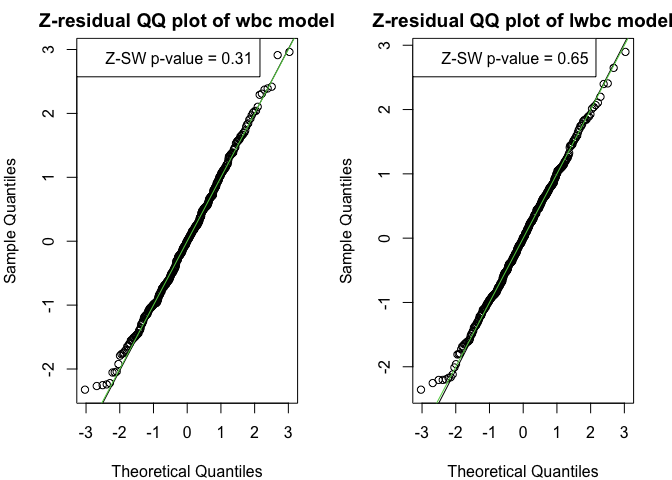
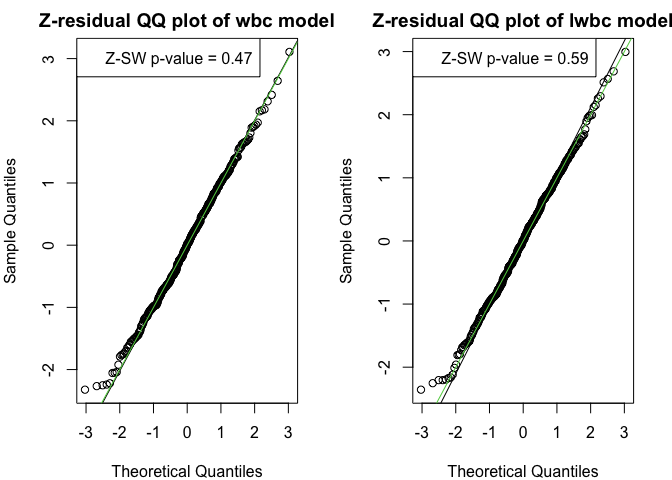
update

diff --git a/README.md b/README.md
@@ -161,6 +161,7 @@ plot.zresid(Zresid.LeukSurv.wbc,
             fitted.values=fit_LeukSurv_wbc$linear.predictors,
             xlab="Linear Predictor",
             main.title = "Z-residual Scatterplot of wbc model")
+#> Outlier Indices: 375
 plot.zresid(Zresid.LeukSurv.logwbc,
             fitted.values=fit_LeukSurv_logwbc$linear.predictors,
             xlab="Linear Predictor",
@@ -196,6 +197,7 @@ par(mfrow = c(2,2),mar=c(4,4,1.5,2))
 plot.zresid(Zresid.LeukSurv.wbc,
             fitted.values=LeukSurv$wbc,
             xlab="wbc",main.title = "Z-residual Scatterplot of wbc model")
+#> Outlier Indices: 375
 plot.zresid(Zresid.LeukSurv.logwbc,
             fitted.values=LeukSurv$logwbc,
             xlab="log(wbc)",main.title = "Z-residual Scatterplot of lwbc model")
@@ -229,13 +231,13 @@ the normality of censored Z-residuals.
 
 ``` r
 sw.test.zresid(Zresid.LeukSurv.wbc)
-#> [1] 0.3137372
+#> [1] 0.4695733
 sw.test.zresid(Zresid.LeukSurv.logwbc)
-#> [1] 0.6498562
+#> [1] 0.5895072
 sf.test.zresid(Zresid.LeukSurv.wbc)
-#> [1] 0.4569965
+#> [1] 0.5796773
 sf.test.zresid(Zresid.LeukSurv.logwbc)
-#> [1] 0.8233833
+#> [1] 0.7405083
 ```
 
 The Z-residuals can be divided into $k$ groups by cutting the covariates
@@ -247,24 +249,24 @@ to examine the equality of variances.
 
 ``` r
 anov.test.zresid(Zresid.LeukSurv.wbc,fitted.values=fit_LeukSurv_wbc$linear.predictors, k.anova=10)
-#> [1] 0.7404806
+#> [1] 0.8839658
 anov.test.zresid(Zresid.LeukSurv.logwbc,fitted.values=fit_LeukSurv_logwbc$linear.predictors, k.anova=10)
-#> [1] 0.8532235
+#> [1] 0.4987955
 
 bartlett.test.zresid(Zresid.LeukSurv.wbc,fitted.values=fit_LeukSurv_wbc$linear.predictors, k.bl=10)
-#> [1] 0.3240303
+#> [1] 0.411713
 bartlett.test.zresid(Zresid.LeukSurv.logwbc,fitted.values=fit_LeukSurv_logwbc$linear.predictors, k.bl=10)
-#> [1] 0.6288796
+#> [1] 0.2622253
 
 anov.test.zresid(Zresid.LeukSurv.wbc,fitted.values=LeukSurv$wbc, k.anova=10)
-#> [1] 0.5785806
+#> [1] 0.5309539
 anov.test.zresid(Zresid.LeukSurv.logwbc,fitted.values=LeukSurv$logwbc, k.anova=10)
-#> [1] 0.0001618945
+#> [1] 0.0005263307
 
 bartlett.test.zresid(Zresid.LeukSurv.wbc,fitted.values=LeukSurv$wbc, k.bl=10)
-#> [1] 0.7956238
+#> [1] 0.9481796
 bartlett.test.zresid(Zresid.LeukSurv.logwbc,fitted.values=LeukSurv$logwbc, k.bl=10)
-#> [1] 0.179489
+#> [1] 0.3726377
 ```
 
 The Z-residual test p-values quoted above contain randomness because of
@@ -313,22 +315,22 @@ for(j in 1:n_sims ){
                                           k.anova=10)
 }
 pmin.sw.LeukSurv.wbc<-bounds_pvalues(pv=sw.LeukSurv.wbc);pmin.sw.LeukSurv.wbc
-#> [1] 0.2860939
+#> [1] 0.4830557
 pmin.sf.LeukSurv.wbc<-bounds_pvalues(pv=sf.LeukSurv.wbc);pmin.sf.LeukSurv.wbc
-#> [1] 0.2551249
+#> [1] 0.6927441
 pmin.aov.lp.LeukSurv.wbc<-bounds_pvalues(pv=anov.LeukSurv.lp.wbc);pmin.aov.lp.LeukSurv.wbc
-#> [1] 0.9906874
+#> [1] 0.9877457
 pmin.aov.wbc.LeukSurv<-bounds_pvalues(pv=anov.LeukSurv.wbc);pmin.aov.wbc.LeukSurv
-#> [1] 0.7802501
+#> [1] 0.7861319
 
 pmin.sw.LeukSurv.lwbc<-bounds_pvalues(pv=sw.LeukSurv.lwbc);pmin.sw.LeukSurv.lwbc
-#> [1] 0.5809713
+#> [1] 0.5801661
 pmin.sf.LeukSurv.lwbc<-bounds_pvalues(pv=sf.LeukSurv.lwbc);pmin.sf.LeukSurv.lwbc
-#> [1] 0.7724444
+#> [1] 0.7734118
 pmin.aov.lp.LeukSurv.lwbc<-bounds_pvalues(pv=anov.LeukSurv.lp.lwbc);pmin.aov.lp.LeukSurv.lwbc
-#> [1] 0.9783983
+#> [1] 0.9808257
 pmin.aov.lwbc.LeukSurv<-bounds_pvalues(pv=anov.LeukSurv.lwbc);pmin.aov.lwbc.LeukSurv
-#> [1] 2.937714e-05
+#> [1] 2.050978e-07
 ```
 
 The histograms of 1000 replicated Z-residual test p-values for the wbc
